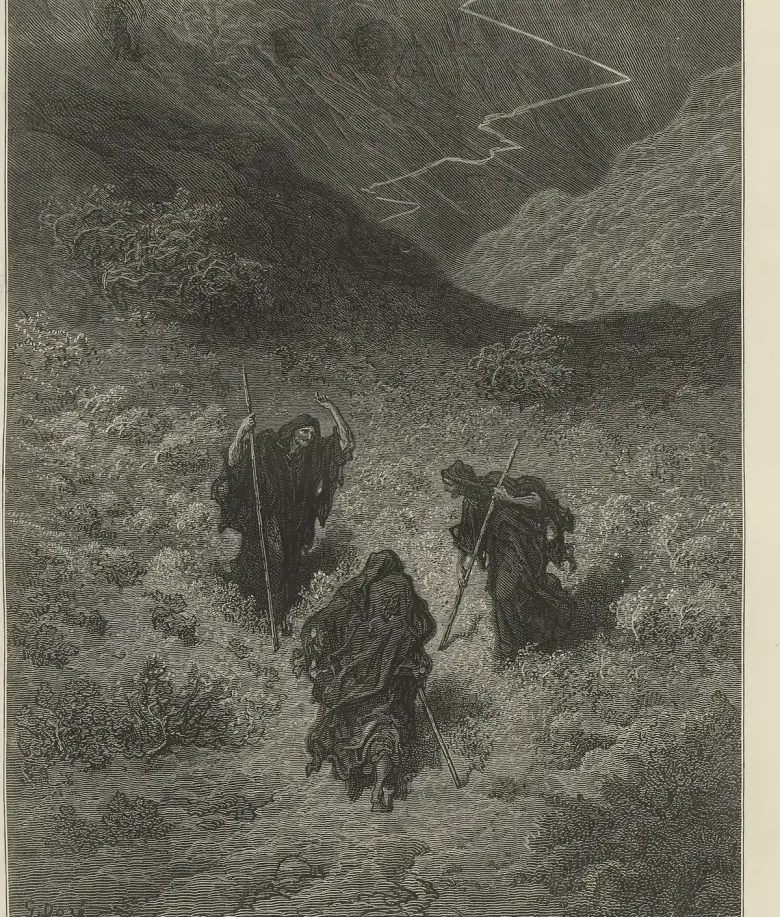
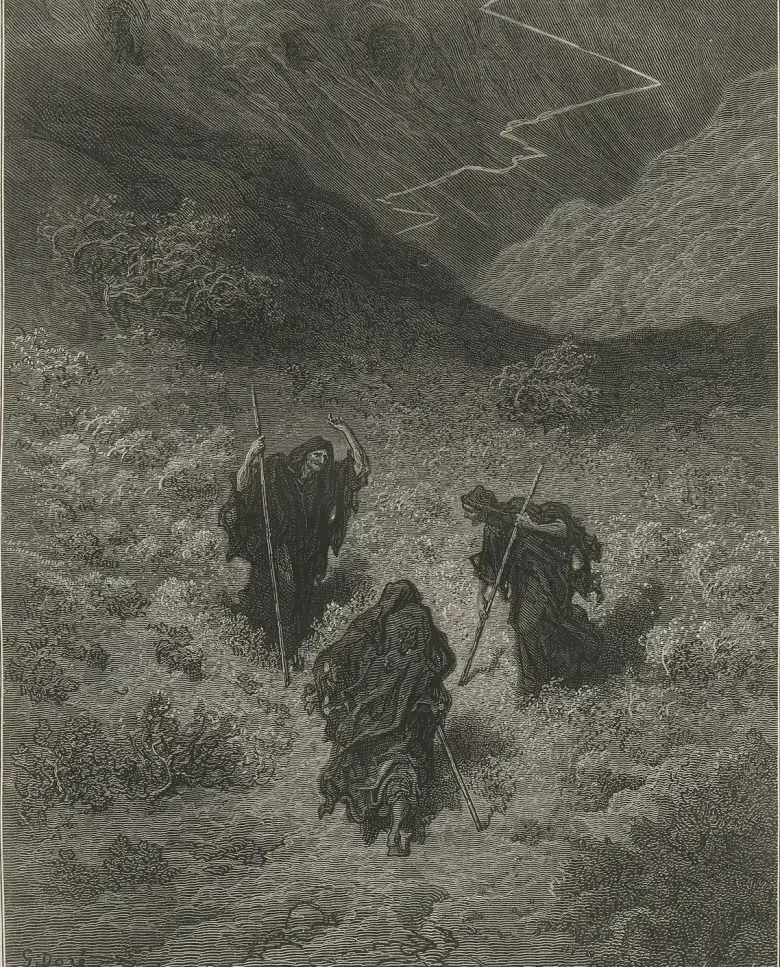
Crop the paper margins baked into three plates
witches-storm carried 54px of scan margin down its right edge and
macbeth-cave 13px, which object-fit: cover cannot hide: on a phone the
plate fills the width exactly, so the cream showed as bars at both edges
of the engraving on /genres and /journal. Cropped at the source and
re-encoded, with the srcSet descriptors following the new widths.

diff --git a/app/genres/page.tsx b/app/genres/page.tsx
@@ -18,6 +18,17 @@ const tilePlate: Record<string, string> = {
   "mistyka-proza": "witches-storm",
 };
 
+/** Natural widths, needed for the srcSet descriptor: the plates are scans of
+ * different sizes, and three were cropped in from their paper margins. */
+const plateWidth: Record<string, number> = {
+  "mystique-forest": 900,
+  "macbeth-cave": 1174,
+  bluebeard: 900,
+  "death-moon": 1200,
+  "fantasy-giant": 900,
+  "witches-storm": 1138,
+};
+
 export const metadata = pageMeta(
   "Напрями – ВІДЬМАР",
   "Що видає ВІДЬМАР: езотерика, містика, відьомство й духовні практики, трилери, психологічні романи, фентезі та містична проза.",
@@ -42,7 +53,7 @@ export default function GenresPage() {
         <img
           className={styles.plateImg}
           src="/vidmar/gravure/witches-storm.webp"
-          srcSet="/vidmar/gravure/witches-storm-sm.webp 780w, /vidmar/gravure/witches-storm.webp 1200w"
+          srcSet="/vidmar/gravure/witches-storm-sm.webp 780w, /vidmar/gravure/witches-storm.webp 1138w"
           sizes="100vw"
           alt=""
           aria-hidden="true"
@@ -67,7 +78,7 @@ export default function GenresPage() {
                 <img
                   className={styles.tilePlate}
                   src={`/vidmar/gravure/${tilePlate[g.slug]}.webp`}
-                  srcSet={`/vidmar/gravure/${tilePlate[g.slug]}-sm.webp 780w, /vidmar/gravure/${tilePlate[g.slug]}.webp 1200w`}
+                  srcSet={`/vidmar/gravure/${tilePlate[g.slug]}-sm.webp 780w, /vidmar/gravure/${tilePlate[g.slug]}.webp ${plateWidth[tilePlate[g.slug]]}w`}
                   sizes="(max-width: 760px) 100vw, 50vw"
                   alt=""
                   aria-hidden="true"

diff --git a/app/journal/page.tsx b/app/journal/page.tsx
@@ -28,7 +28,7 @@ export default function JournalPage() {
         <img
           className={styles.plateImg}
           src="/vidmar/gravure/macbeth-cave.webp"
-          srcSet="/vidmar/gravure/macbeth-cave-sm.webp 780w, /vidmar/gravure/macbeth-cave.webp 1200w"
+          srcSet="/vidmar/gravure/macbeth-cave-sm.webp 780w, /vidmar/gravure/macbeth-cave.webp 1174w"
           sizes="100vw"
           alt=""
           aria-hidden="true"
